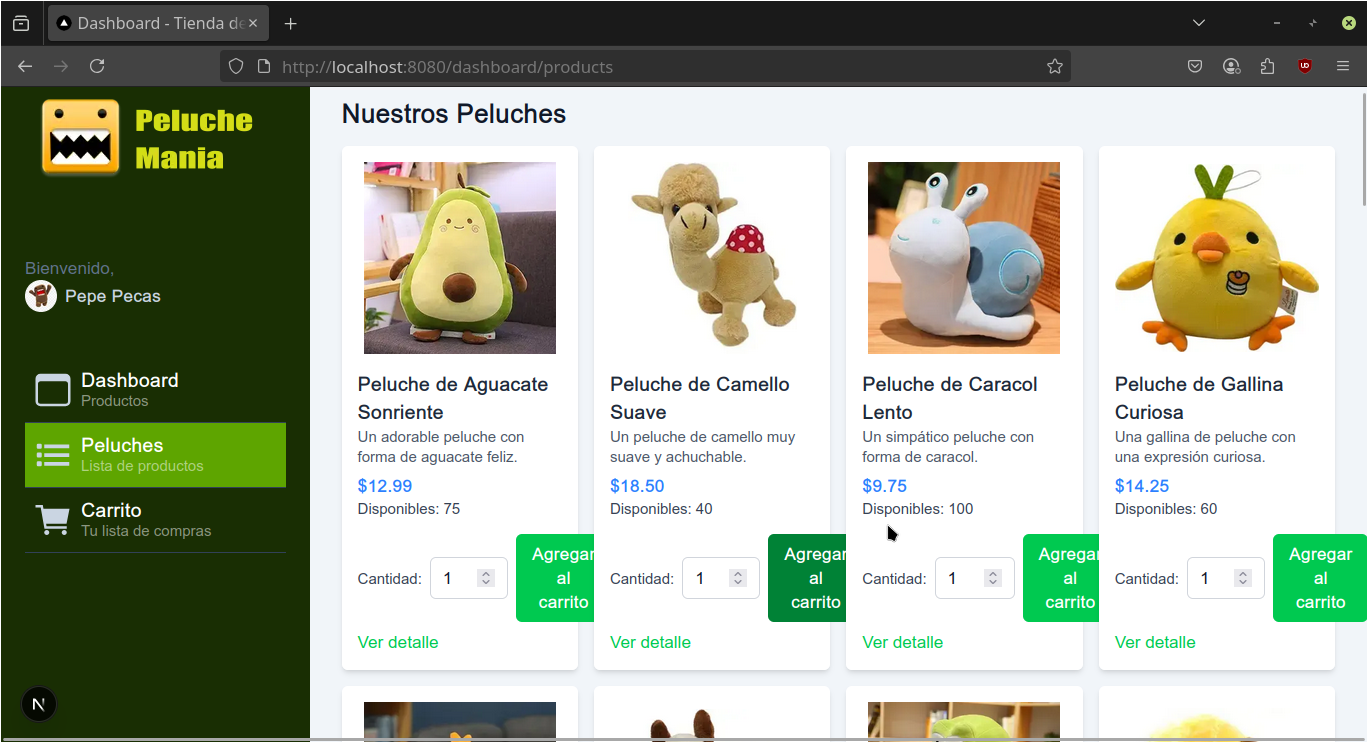
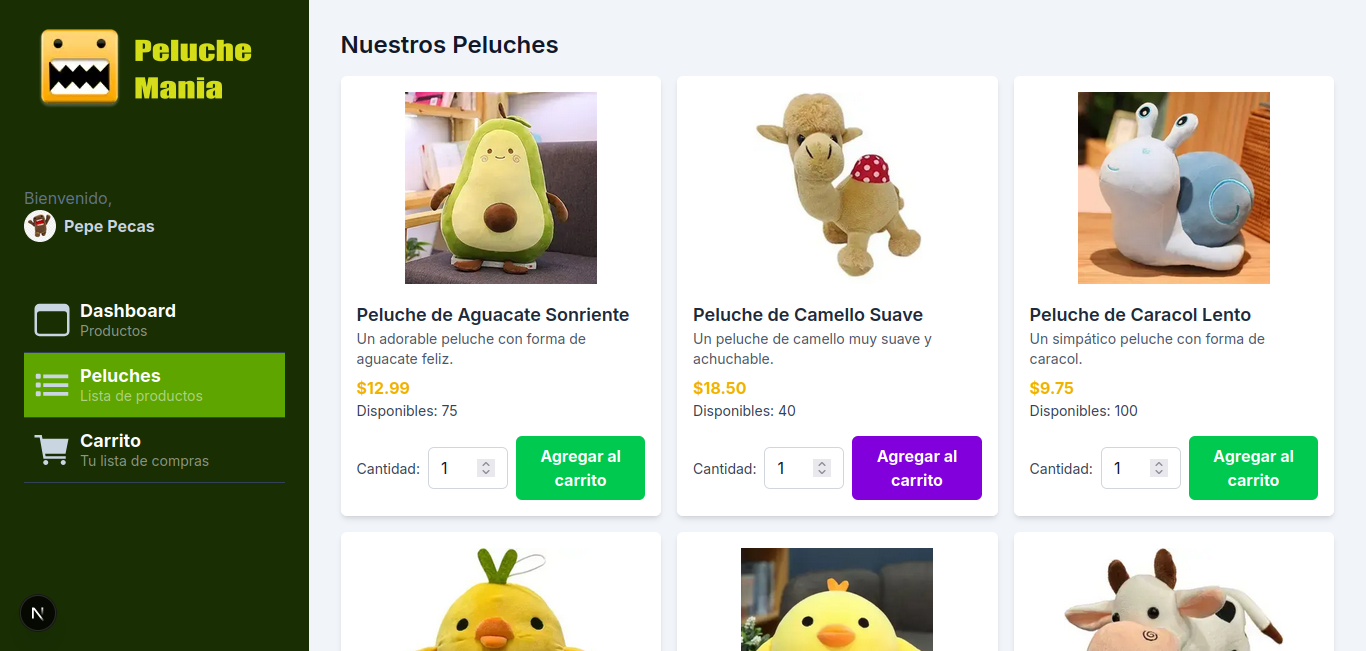
Mejoras visuales

diff --git a/web/src/app/dashboard/products/page.tsx b/web/src/app/dashboard/products/page.tsx
@@ -5,7 +5,7 @@ import Image from 'next/image';
 import Link from 'next/link';
 import { useCart } from '@/app/context/CartContext';
 import { Product } from '@/app/types/product';
-import { initialProducts } from '@/app/data/products'; // Importa la función para obtener los productos
+import { initialProducts } from '@/app/data/products';
 
 const ProductsPage = () => {
     const { addToCart } = useCart();
@@ -34,7 +34,7 @@ const ProductsPage = () => {
 
     const handleAddToCart = (product: Product, quantity: number) => {
         if (quantity > 0 && quantity <= product.npiezas) {
-            addToCart(product, quantity); // Pasa el objeto product completo
+            addToCart(product, quantity);
             alert(`${quantity} "${product.nombre}" agregado(s) al carrito.`);
         } else if (quantity > product.npiezas) {
             alert(`No hay suficiente stock de "${product.nombre}". Disponibles: ${product.npiezas}`);
@@ -52,7 +52,8 @@ const ProductsPage = () => {
     }
 
     if (error) {
-        return (            <div className="p-6 text-red-500">
+        return (
+            <div className="p-6 text-red-500">
                 Error: {error}
             </div>
         );
@@ -62,13 +63,12 @@ const ProductsPage = () => {
         <div className="p-6">
             <h1 className="text-2xl font-semibold text-gray-900 mb-4">Nuestros Peluches</h1>
             {products.length > 0 ? (
-                <div className="grid grid-cols-1 sm:grid-cols-2 md:grid-cols-3 lg:grid-cols-4 gap-4">
+                <div className="grid grid-cols-1 sm:grid-cols-2 md:grid-cols-3 lg:grid-cols-3 gap-4"> {/* 3 columnas en pantallas grandes */}
                     {products.map((product: Product) => {
-                        // Construye la ruta de la imagen correctamente
                         const imagePath = `/images/${product.imagen}`;
 
                         return (
-                            <div key={product.id} className="bg-white rounded-md shadow-md p-4">
+                            <div key={product.id} className="bg-white rounded-md shadow-md p-4 flex flex-col min-h-[400px] max-w-[100%]"> 
                                 <div className="w-full h-48 relative overflow-hidden rounded-md mb-4">
                                     <Image
                                         src={imagePath}
@@ -78,10 +78,12 @@ const ProductsPage = () => {
                                         onError={() => console.error(`Error loading image: ${imagePath}`)}
                                     />
                                 </div>
-                                <h2 className="text-lg font-semibold text-gray-800">{product.nombre}</h2>
-                                <p className="text-gray-600 text-sm">{product.descripcion}</p>
-                                <p className="text-blue-500 font-bold mt-2">${product.precio}</p>
-                                <p className="text-gray-700 text-sm">Disponibles: {product.npiezas}</p>
+                                <div className="flex-grow">
+                                    <h2 className="text-lg font-semibold text-gray-800">{product.nombre}</h2>
+                                    <p className="text-gray-600 text-sm">{product.descripcion}</p>
+                                    <p className="text-yellow-500 font-bold mt-2">${product.precio}</p>
+                                    <p className="text-gray-700 text-sm">Disponibles: {product.npiezas}</p>
+                                </div>
                                 <div className="mt-4 flex items-center space-x-2">
                                     <label htmlFor={`quantity-${product.id}`} className="text-sm text-gray-700">
                                         Cantidad:
@@ -95,19 +97,16 @@ const ProductsPage = () => {
                                         className="w-20 px-3 py-2 border border-gray-300 rounded-md focus:outline-none focus:ring-2 focus:ring-blue-500"
                                     />
                                     <button
-                                        className="bg-green-500 hover:bg-green-700 text-white font-bold py-2 px-4 rounded-md"
+                                        className="bg-green-500 hover:bg-purple-700 text-white font-bold py-2 px-4 rounded-md"
                                         onClick={() => {
                                             const quantityInput = document.getElementById(`quantity-${product.id}`) as HTMLInputElement;
                                             const quantity = parseInt(quantityInput.value, 10);
-                                            handleAddToCart(product, quantity); // Pasa el objeto product
+                                            handleAddToCart(product, quantity);
                                         }}
                                     >
                                         Agregar al carrito
                                     </button>
                                 </div>
-                                <Link href={`/dashboard/products/${product.id}`} className="text-green-500 hover:underline mt-2 block">
-                                    Ver detalle
-                                </Link>
                             </div>
                         );
                     })}
